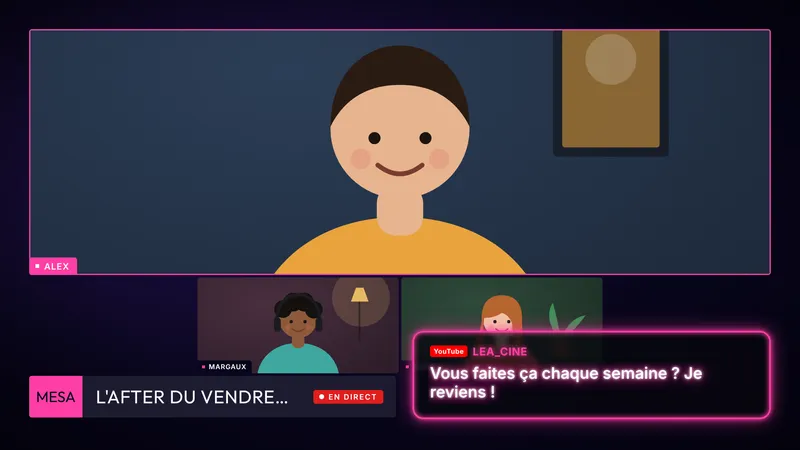
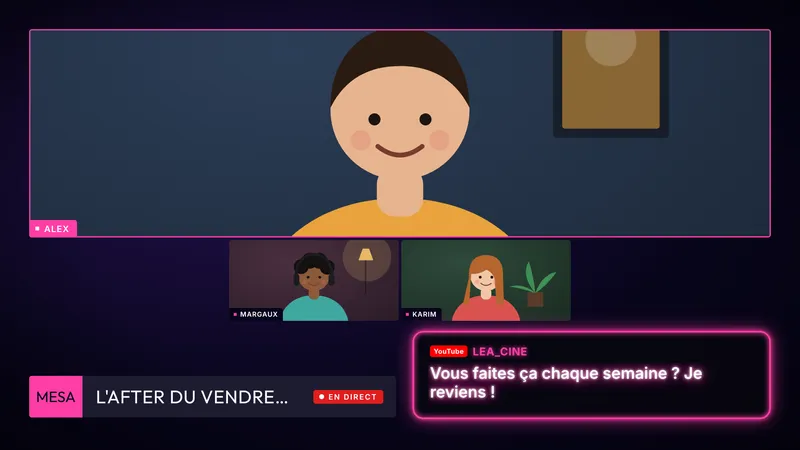
Chat à l'écran : un message mis en avant ne passe jamais sur une caméra (les caméras lui laissent sa place ; en mode Réaction/Jeu il passe de l'autre côté) ; images de l'accueil refaites
Claude-Session: https://claude.ai/code/session_01R6M1rEWyxs5sPwVEzkARcV

Changed region(s): [[0.0312, 0.0622, 0.9688, 0.84], [0.7188, 0.0622, 0.8125, 0.1867], [0.6875, 0.28, 0.8438, 0.3422]]

diff --git a/js/sortie.js b/js/sortie.js
@@ -371,9 +371,12 @@ function appliquerEtat(st) {
   document.body.classList.toggle('cam-plein', camPlein);
   // sans bandeau, les caméras descendent jusqu'en bas
   const sansBas = z => bandeauVide && !VERTICAL ? Object.assign({}, z, { h: HAUT - 70 - z.y }) : z;
-  const zone = camPlein ? cote({ x: 0, y: 0, w: LARG, h: HAUT })
-    : cote(VERTICAL ? retrait(ZONE_V, 1180) : retrait(sansBas(MUR ? ZONE_MUR : ZONE), 720));
-  const zoneWatch = cote(VERTICAL ? retrait(ZONE_WATCH_V, 1180) : retrait(ZONE_WATCH, 690));
+  // un message du chat mis en avant ne passe jamais sur une caméra : les caméras lui laissent sa place
+  gererChat();
+  const bulle = quizEnCours ? null : rectChat();
+  const zone = eviterChat(camPlein ? cote({ x: 0, y: 0, w: LARG, h: HAUT })
+    : cote(VERTICAL ? retrait(ZONE_V, 1180) : retrait(sansBas(MUR ? ZONE_MUR : ZONE), 720)), bulle);
+  const zoneWatch = eviterChat(cote(VERTICAL ? retrait(ZONE_WATCH_V, 1180) : retrait(ZONE_WATCH, 690)), bulle);
   const zoneScene = scene === 'watch' ? zoneWatch : zone;
   // modes Réaction et Jeu : ce qui est partagé prend tout l'écran, les caméras se posent dans un coin (ou dessous en vertical)
   const pleinEcran = avecPartage && !quizEnCours && modeDe(st) !== 'plateau';
@@ -394,16 +397,45 @@ function appliquerEtat(st) {
   }
   for (const [cle, o] of sourcesEl) placer(o, partageAffiche ? disp[cle] : null);
   placerPanneauQuiz(quizEnCours ? disp.__panneau : null);
+  // modes Réaction et Jeu (caméras dans un coin) : si le message tombe sur une caméra, il passe de l'autre côté
+  document.body.classList.remove('chat-flip');
+  if (bulle && pleinEcran && touche(bulle, ids.map(id => disp[id]))) document.body.classList.add('chat-flip');
   gererPlaylist();
   gererEffet();
   gererQuiz();
-  gererChat();
   gererQR();
   gererFilChat(filChat, scene === 'watch' ? zoneWatch : zone);
   gererWatch();
   appliquerVolumes();
   compteARebours();
   gererMusique(scene);
+}
+
+/* ----- Le message du chat et les caméras ----- */
+// la place du message à l'écran (sans tenir compte de son animation d'arrivée) ; rien s'il est caché
+function rectChat() {
+  const box = $('#chat-bulle');
+  if (box.classList.contains('cachee')) return null;
+  const b = box.querySelector('.cb-boite') || box;
+  let x = 0, y = 0, el = b;
+  while (el && el.id !== 'stage' && el !== document.body) { x += el.offsetLeft; y += el.offsetTop; el = el.offsetParent; }
+  return b.offsetWidth ? { x, y, w: b.offsetWidth, h: b.offsetHeight } : null;
+}
+const seCroisent = (a, b) => !!a && !!b && a.x < b.x + b.w && b.x < a.x + a.w && a.y < b.y + b.h && b.y < a.y + a.h;
+const touche = (b, rects) => rects.some(r => seCroisent(b, r));
+// la zone des caméras, coupée pour laisser la place au message : on garde le plus grand morceau (dessus, dessous, à gauche, à droite)
+function eviterChat(z, B, ecart = 24) {
+  if (!seCroisent(z, B)) return z;
+  const bas = B.y + B.h + ecart, droite = B.x + B.w + ecart;
+  const morceaux = [
+    Object.assign({}, z, { h: B.y - ecart - z.y }),
+    Object.assign({}, z, { y: bas, h: z.y + z.h - bas }),
+    Object.assign({}, z, { w: B.x - ecart - z.x }),
+    Object.assign({}, z, { x: droite, w: z.x + z.w - droite })
+  ].filter(o => o.w >= z.w * .3 && o.h >= z.h * .3);
+  // à surface égale, une zone trop étirée donne de petites caméras : on compte la place utile en 16/9
+  const utile = o => Math.min(o.w, o.h * 16 / 9) * Math.min(o.h, o.w * 9 / 16) + o.w * o.h * .25;
+  return morceaux.length ? morceaux.sort((a, b) => utile(b) - utile(a))[0] : z;
 }
 
 /* ----- Musiques d'intro et de fin (liens dans le thème, son seul) ----- */
@@ -453,9 +485,10 @@ function gererChat() {
   clearInterval(chatFrappe);
   if (style === 'depeche') {                        // tapé à la machine, en 2 à 3 secondes quelle que soit la longueur
     let n = 0; const pas = Math.max(1, Math.ceil(texte.length / 70));
+    t.style.minHeight = ''; t.textContent = texte; t.style.minHeight = t.offsetHeight + 'px';   // sa place finale est gardée dès le début
     t.textContent = '';
     chatFrappe = setInterval(() => { n = Math.min(texte.length, n + pas); t.textContent = texte.slice(0, n); if (n >= texte.length) clearInterval(chatFrappe); }, 35);
-  } else t.innerHTML = texte.split(/\s+/).map((m, i) => `<span style="--i:${i}">${esc(m)}</span>`).join(' ');
+  } else { t.style.minHeight = ''; t.innerHTML = texte.split(/\s+/).map((m, i) => `<span style="--i:${i}">${esc(m)}</span>`).join(' '); }
   const b = $('#chat-bulle .cb-boite'); b.classList.remove('entree'); void b.offsetWidth; b.classList.add('entree');
 }
 

diff --git a/sortie.html b/sortie.html
@@ -15,7 +15,7 @@
 <link rel="stylesheet" href="css/watch.css?v=46427282">
 <link rel="stylesheet" href="css/habillages.css?v=3b0b3d2a">
 <link rel="stylesheet" href="css/diffusion.css?v=3ea47f53">
-<link rel="stylesheet" href="css/chat.css?v=1781cb74">
+<link rel="stylesheet" href="css/chat.css?v=0591ed16">
 <link rel="stylesheet" href="css/faux.css?v=e2d3aac6">
 </head>
 <body class="sortie">
@@ -95,7 +95,7 @@
 <script src="js/common.js?v=9aa86583"></script>
 <script src="js/fonds3d.js?v=3f9e3809"></script>
 <script src="js/habillages.js?v=c066d580"></script>
-<script src="js/sortie.js?v=7ba20fe6"></script>
+<script src="js/sortie.js?v=e6565ec8"></script>
 <script src="js/whip.js?v=92db7912"></script>
 <script src="js/diffusion.js?v=4531c71d"></script>
 </body>

diff --git a/css/chat.css b/css/chat.css
@@ -164,3 +164,6 @@ body.chat-on[data-chat-style="notif"] #bandeau { right: auto; }
 body.vertical[data-chat-style="notif"] #chat-bulle { left: 40px; right: 120px; top: 244px; width: auto; margin-left: 0; }
 body.vertical[data-chat-style="notif"] #cb-p { width: 76px; height: 76px; border-radius: 20px; font-size: 13px; }
 body.vertical[data-chat-style="notif"] #cb-auteur { padding-right: 130px; }
+
+/* modes Réaction et Jeu : le message passe de l'autre côté s'il tombait sur une caméra (sortie.js, chat-flip) */
+body.chat-flip:not(.vertical):is([data-chat-style="bulle"], [data-chat-style="postit"], [data-chat-style="billet"], [data-chat-style="clap"], [data-chat-style="neon"]) #chat-bulle { right: auto; left: 70px; }
